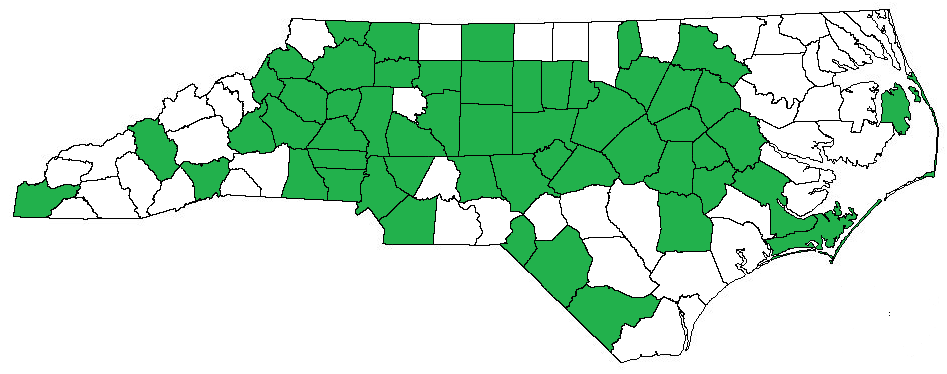
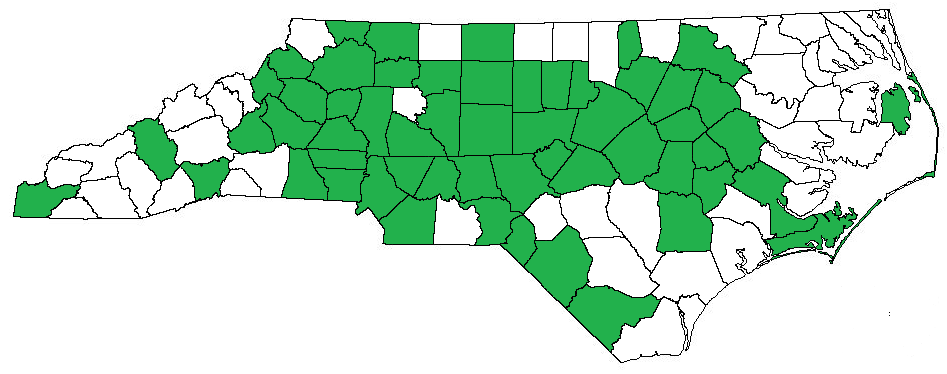
bbq 8/7/22

Changed region(s): [[0.4287, 0.4118, 0.5512, 0.6765]]

diff --git a/bbq/index.html b/bbq/index.html
@@ -39,7 +39,7 @@
 
 <center>- - - - - - - - - - -</center>
 
-<p>I've had some people ask me if I would be the first person to eat barbeque in every conuty of North Carolina.  While I'm sure that some one's done it before, for a while I couldn't find any hard and fast evidence that someone else had.  That was until I was reading Dale and John Shelton Reed's <i>Holy Smoke: The Big Book of North Carolina Barbecue</i> (2008), which mentions in the outro Jim Early, author of <i>The Best Tar Heel Barbecue, Manteo to Murphy</i> (2002) and founder of the North Carolina Barbecue Society (NCBS).  Though I haven't read his book yet (I need to find a copy first), I hope to use it to help find some 'cue in a few of the more remote counties of the state.</p>
+<p>I've had some people ask me if I would be the first person to eat barbeque in every conuty of North Carolina.  While I have to believe that some one's tried it before, for a while I couldn't find any hard and fast evidence on it.  That was until I was reading Dale and John Shelton Reed's <i>Holy Smoke: The Big Book of North Carolina Barbecue</i> (2008), which mentions in the outro Jim Early, author of <i>The Best Tar Heel Barbecue, Manteo to Murphy</i> (2002) and founder of the North Carolina Barbecue Society (NCBS).  Though he doesn't explicitly say he ate in every county, in the introduction he stated that he "traveked in all 100 counties of this great state, drove more than 18,000 miles, talked to more than 1,500 people and critiqued more than 200 barbecue places" -- and he did it all in just six months!  I mapped out as best as I could every place reviewed in his book <a href="https://www.google.com/maps/d/u/0/edit?mid=1LSkgbIrzLyinNQ1lYrJwFXnA8IqD-Uc&ll=34.85612798667291%2C-82.82861048577091&z=7">here</a>; he included "only" 139 of the 200+ reported stops in the book (nearly half of which have closed since its writing), but there are several counties with no diners listed -- meaning I could still be the first!</p>
 
 <center>- - - - - - - - - - -</center>
 
@@ -58,10 +58,10 @@
 <br>
 <center>
 	<h2>Current County Counter</h2>
-	<h3><span style="color:red">54</span> / 100</h3>
-	<h3>75 different in-state BBQ joints</h3>
+	<h3><span style="color:red">56</span> / 100</h3>
+	<h3>77 different in-state BBQ joints</h3>
 	<h3>3 annual BBQ events</h3>
-	<p>(last updated 7/31/2022)</p>
+	<p>(last updated 8/7/2022)</p>
 </center>
 <br>
 
@@ -183,7 +183,7 @@
 <p><b>Gaston County</b></p>
 <ul>
 	<li>Kyle Fletcher's BBQ - Gastonia - 6/5/2018 - <i><span class="ncbsbbq">True 'Cue NC</span></i></li>
-	<li>R.O.'s BBQ - Gastonia - 5/31/2018, 6/12/2018, and 11/6/2021</li>
+	<li>R.O.'s BBQ - Gastonia - 5/31/2018, 6/12/2018, 11/6/2021, and 8/6/2022</li>
 </ul>
 <br>
 <p><b>Greene County</b></p>
@@ -288,6 +288,11 @@
 	<li>Hop's Bar-B-Q - Asheboro - 1/8/2022</li>
 </ul>
 <br>
+<p><b>Richmond County</b></p>
+<ul>
+	<li>Pattan's Downtown Grille - Rockingham - 8/5/2022 - <a href="bbq-pics.html#Pattans">pictures</a></li>
+</ul>
+<br>
 <p><b>Robeson County</b></p>
 <ul>
 	<li>Joe-B-Q BBQ - Maxton - 6/10/2022 - <a href="bbq-pics.html#JoeBQ">pictures</a></li>
@@ -308,6 +313,11 @@
 <p><b>Scotland County</b></p>
 <ul>
 	<li>General McArthur's Restaurant - Laurinburg - 2/6/2022 - <a href="bbq-pics.html#McArthurs">pictures</a></li>
+</ul>
+<br>
+<p><b>Stanly County</b></p>
+<ul>
+	<li>Whispering Pines B-B-Q - Albemarle - 8/6/2022 - <i><span class="ncbsbbq">True 'Cue NC</span></i> - <a href="bbq-pics.html#Whispering">pictures</a></li>
 </ul>
 <br>
 <p><b>Surry County</b></p>
@@ -486,6 +496,10 @@
 <p>Later that weekend, on the way to Myrtle Beach with some friends, I stopped at Joe-B-Q BBQ in Maxton and was similarly blown away by both the taste and owner Joe Locklear's friendliness.  He told us they always cooked over coals (and I sure didn't doubt him from the taste), and was almost offended when I asked for barbeque sauce, saying "Make sure you try it before you go putting any sauce on it!"  And truth be told, it was so moist and tender that it really didn't need any, though his eastern-style vinegar sauce certainly didn't hurt the meat.</p>
 
 <p>On the fourth weekend in June, I visited three more barbeque restaurants, each irregular from most of the other entrants on my list.  The first was Sim's Country Bar-B-Que, in Dudley Shoals, which will probably be the only place I eat and describe that outwardly proclaims to serve non-North Carolina barbeque. Opened by Keith Sims in 1979 after a hunting trip to Texas, the restaurant serves Texas-style barbequed gas-cooked pork alongside chicken, beans, and a few other offerings from a buffet-style serving booth.  The main draw to Sims', however, is the live bluegrass picking and dancing they hold every Friday and Saturday night.  We listened to the Sigmon Stringers play bluegrass standards for over an hour and a half, with a break in the middle for some line dancing lessons.  The next day, we stopped at Old Hampton Store &amp; BBQ, a welcome respite after getting drenched while completing the grueling 8-mile trek to <a href="../hiking/grandfather-mountain/calloway-peak/calloway-peak.html">Calloway Peak</a> via Profile Trail in a steady rain after a morning appetizer at <a href="../hiking/pisgah/setrock-falls/setrock-falls.html">Setrock Falls</a>. The old grist mill, which cooks its 'cue over hickory wood, has been converted into a lively restaurant and live music venue, but what makes it so unique among traditional barbeque restaurants is that it had a bar which served beer, wine, and cocktails.  After finishing the dinner, I grabbed a beer and sauntered over to the lawn adjacent to the building and listened to a band play classic rock covers, in addition to a cover of Rocky Top which a Volunteers fan in the crowd goaded them into playing.  We spent most of Sunday at the 96th and final <a href="other-pics.html#SOTM">Singing On The Mountain</a> gospel festival at MacRae's Meadow, at the foot of Grandfather Mountain, where we listened to a number of regionally-prominent gospel acts.  After a full day of gospel singing, and even a message from a man who spoke on how God healed his blindness, our Sunday finished in a very different vein, at the NASCAR-themed Lancaster's BBQ in Mooresville, where we ate inside a converted school bus.  Bedecked from floor to ceiling in car hoods, racing uniforms, and TVs, Lancaster's also had a full-fledged sports bar, replete with TVs showing pre-race interviews and graphics for the Ally 400 race, as well as an arcade by the entrance.  All in all, though not orthodox in many ways, eating at two wood-smoked barbeque restaurants in one weekend is more than I can say I've eaten at in a while.</p>
+
+<p>After a brief respite from barbeque, I knocked out two counties on the first weekend of August while doing a quick trip to Charlotte.  It was an interesting look at the changing shape of wood-smoked barbeque in the state, with Whispering Pines B-B-Q of Albemarle -- a narrow, cash-only, broken-quarry-tile-floored joint which opened back in 1945 -- representing the old guard, and Pattan's Downtown Grill of Rockingham -- a modern, chic store which opened 70 years later in a miniature-strip-mall sort of thing right set in a new-looking quarter of downtown Rockingham -- carrying the modern torch.  Both restaurants adhere the smoking process, with Whispering Pines using exclusively hickory, and Pattan's proclaiming "all of our meats from the pit are cooked the old-fashioned way, low and slow... and are seasoned with our signature rub and hickory smoke."  Somewhat cagey wording aside, both places put out great food, with Pattan's delicious but highly untraditional PeeDee River Swamp Sauce -- a ruddy, dark red sauce which combines all three of the Carolinas' sauce styles (vinegar, tomato, and mustard) -- turning their minced pork a deep brown color, while Whispering Pines' vinegar sauce was as traditional as the rest of the restaurant.  Both are doing a great job of showing patrons what wood-smoked barbeque is all about.</p>
+
+<p>Worth mentioning while talking about non-traditional barbeque styles is R.O.'s BBQ of Gastonia.  Over the summer of 2017 I worked just a short drive down the road from the diner, which opened back in 1946, and the place quickly became a favorite of mine for their unusual slaw.  While the octogenarian restaurant is among the few surviving Charlotte-area classics, its slaw is anything but.  Jim Early, one of North Carolina's earliest and most prominent 'cue proselytes, aptly described it as "pinkish in color, kinda like 1000 Island dressing."  As you may gather from that description, it's not your standard red or white slaw, but is instead a mix of 11 ingredients, the exact makeup of which is a closely guarded secret.  Informally referred to as their "heavenly slaw," they seem to use it in place of actual sauce; I've never seen an actual bottle of dip or sauce on any of my several visits, and their barbecue sandwhiches come absolutely smothered in the stuff.</p>
 
 
 <center>- - - - - - - - - - -</center>

diff --git a/bbq/bbq-pics.html b/bbq/bbq-pics.html
@@ -696,6 +696,26 @@
 </button></center>
 
 <br>
+<p><b>Richmond County</b></p>
+<p>Pattan's Downtown Grille - Rockingham</p>
+<p><a id="Pattans"></p>
+<center><img id="image134" img-src="https://s3.us-east-1.wasabisys.com/cwclaib-website/NC-State-Page/bbq/Pattans Downtown Grille, Rockingham/20220805_174044.jpg" width="800"></img></center>
+<center><button type="button"
+        onclick="show( image134, this )" id="btnID">
+        Show Image
+</button></center>
+<center><img id="image135" img-src="https://s3.us-east-1.wasabisys.com/cwclaib-website/NC-State-Page/bbq/Pattans Downtown Grille, Rockingham/20220805_174430.jpg" width="800"></img></center>
+<center><button type="button"
+        onclick="show( image135, this )" id="btnID">
+        Show Image
+</button></center>
+<center><img id="image136" img-src="https://s3.us-east-1.wasabisys.com/cwclaib-website/NC-State-Page/bbq/Pattans Downtown Grille, Rockingham/20220805_175509.jpg" width="800"></img></center>
+<center><button type="button"
+        onclick="show( image136, this )" id="btnID">
+        Show Image
+</button></center>
+
+<br>
 <p><b>Robeson County</b></p>
 <p>Joe-B-Q BBQ - Greenville</p>
 <p><a id="JoeBQ"></p>
@@ -737,6 +757,26 @@
 <center><img id="image61" img-src="https://s3.us-east-1.wasabisys.com/cwclaib-website/NC-State-Page/bbq/General McArthur_s, Laurinburg/20220206_130425.jpg" width="800"></img></center>
 <center><button type="button"
         onclick="show( image61, this )" id="btnID">
+        Show Image
+</button></center>
+
+<br>
+<p><b>Stanly County</b></p>
+<p>Whispering Pines B-B-Q</p>
+<p><a id="Whispering"></p>
+<center><img id="image137" img-src="https://s3.us-east-1.wasabisys.com/cwclaib-website/NC-State-Page/bbq/Whispering Pines BBQ, Albemarle/20220806_180834.jpg" width="800"></img></center>
+<center><button type="button"
+        onclick="show( image137, this )" id="btnID">
+        Show Image
+</button></center>
+<center><img id="image139" img-src="https://s3.us-east-1.wasabisys.com/cwclaib-website/NC-State-Page/bbq/Whispering Pines BBQ, Albemarle/20220806_181534.jpg" width="800"></img></center>
+<center><button type="button"
+        onclick="show( image139, this )" id="btnID">
+        Show Image
+</button></center>
+<center><img id="image140" img-src="https://s3.us-east-1.wasabisys.com/cwclaib-website/NC-State-Page/bbq/Whispering Pines BBQ, Albemarle/20220806_181627.jpg" width="800"></img></center>
+<center><button type="button"
+        onclick="show( image140, this )" id="btnID">
         Show Image
 </button></center>
 
